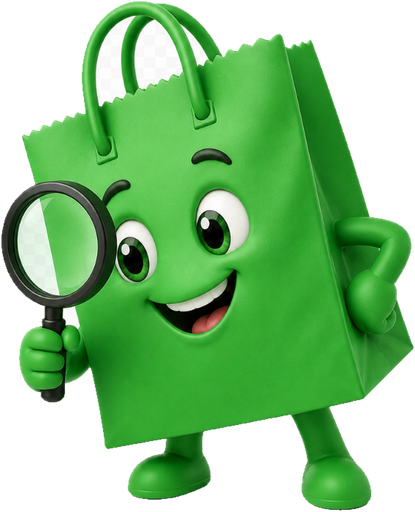
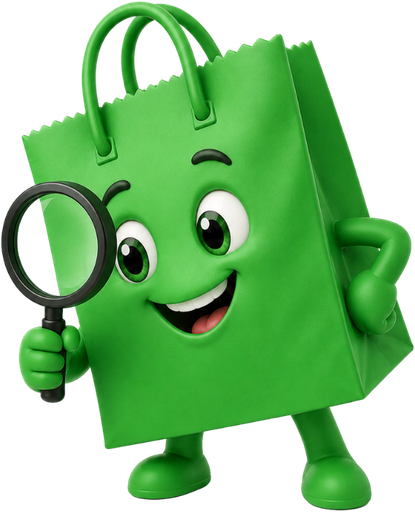
Feat: animacao do Sacolino especifica por pose (acenar, buscar, comemorar) + imagens reotimizadas (SW v35)

diff --git a/app/globals.css b/app/globals.css
@@ -228,6 +228,50 @@ input, select, textarea {
   animation: bob 3s ease-in-out infinite;
 }
 
+/* ── Animações do Sacolino por pose ── */
+
+/* Acenar — balança como quem dá tchau (pivô na base) */
+@keyframes mascot-wave {
+  0%, 100% { transform: rotate(0deg); }
+  25% { transform: rotate(-5deg); }
+  75% { transform: rotate(5deg); }
+}
+.animate-mascot-wave {
+  animation: mascot-wave 2.2s ease-in-out infinite;
+  transform-origin: 50% 92%;
+}
+
+/* Buscar — vai e volta como quem procura */
+@keyframes mascot-scan {
+  0%, 100% { transform: translateX(0) rotate(0deg); }
+  25% { transform: translateX(-7px) rotate(-2deg); }
+  75% { transform: translateX(7px) rotate(2deg); }
+}
+.animate-mascot-scan {
+  animation: mascot-scan 3s ease-in-out infinite;
+}
+
+/* Feliz — sobe e desce contente */
+@keyframes mascot-nod {
+  0%, 100% { transform: translateY(0); }
+  50% { transform: translateY(-6px); }
+}
+.animate-mascot-nod {
+  animation: mascot-nod 2.4s ease-in-out infinite;
+}
+
+/* Comemorar — pulinho de alegria */
+@keyframes mascot-celebrate {
+  0%, 100% { transform: translateY(0) scale(1); }
+  30% { transform: translateY(-13px) scale(1.04); }
+  48% { transform: translateY(0) scale(0.98); }
+  64% { transform: translateY(-6px) scale(1.02); }
+  80% { transform: translateY(0) scale(1); }
+}
+.animate-mascot-celebrate {
+  animation: mascot-celebrate 1.7s ease-in-out infinite;
+}
+
 /* Toast — sobe e aparece */
 @keyframes toast-up {
   from { opacity: 0; transform: translateY(14px); }
@@ -255,6 +299,10 @@ input, select, textarea {
   .animate-tap-pop,
   .animate-bob,
   .animate-tab-bounce,
+  .animate-mascot-wave,
+  .animate-mascot-scan,
+  .animate-mascot-nod,
+  .animate-mascot-celebrate,
   .animate-marquee {
     animation: none !important;
   }

diff --git a/components/shared/Mascote.tsx b/components/shared/Mascote.tsx
@@ -2,13 +2,11 @@ import { cn } from "@/lib/utils";
 
 /**
  * Sacolino — o mascote do Acabou? (imagens 3D em public/mascote/).
- * Dá personalidade às telas vazias, onboarding e celebrações.
- *
- * mood:
- *  - "acenando"    → boas-vindas / tela vazia acolhedora
- *  - "buscando"    → busca sem resultado
- *  - "feliz"       → tudo em dia / sucesso (joinha)
- *  - "comemorando" → compra finalizada (braços pra cima)
+ * Cada pose tem a sua PRÓPRIA animação, combinando com o gesto:
+ *  - "acenando"    → balança como quem dá tchau (boas-vindas / tela vazia)
+ *  - "buscando"    → vai e volta como quem procura (busca sem resultado)
+ *  - "feliz"       → sobe/desce contente (tudo em dia / joinha)
+ *  - "comemorando" → pulinho de alegria (compra finalizada)
  */
 const SRC = {
   acenando: "/mascote/sacolino-acenando.png",
@@ -17,17 +15,25 @@ const SRC = {
   comemorando: "/mascote/sacolino-comemorando.png",
 } as const;
 
+const ANIM = {
+  acenando: "animate-mascot-wave",
+  buscando: "animate-mascot-scan",
+  feliz: "animate-mascot-nod",
+  comemorando: "animate-mascot-celebrate",
+} as const;
+
 export type MascoteMood = keyof typeof SRC;
 
 export function Mascote({
   mood,
   size = 132,
-  bob = true,
+  animated = true,
   className = "",
 }: {
   mood: MascoteMood;
   size?: number;
-  bob?: boolean;
+  /** Liga a animação própria da pose. false = estático (ex: tela com confete). */
+  animated?: boolean;
   className?: string;
 }) {
   return (
@@ -37,7 +43,11 @@ export function Mascote({
       alt="Sacolino, mascote do Acabou?"
       style={{ height: size, width: "auto" }}
       draggable={false}
-      className={cn("select-none pointer-events-none", bob && "animate-bob", className)}
+      className={cn(
+        "select-none pointer-events-none",
+        animated && ANIM[mood],
+        className
+      )}
     />
   );
 }

diff --git a/app/(app)/lista/page.tsx b/app/(app)/lista/page.tsx
@@ -177,7 +177,7 @@ export default function ListaPage() {
     return (
       <div className="min-h-screen flex flex-col items-center justify-center px-6 text-center app-bg">
         <Confetti />
-        <Mascote mood="comemorando" size={168} bob={false} className="mb-4 animate-success-pop drop-shadow-lg" />
+        <Mascote mood="comemorando" size={168} animated={false} className="mb-4 animate-success-pop drop-shadow-lg" />
         <h2 className="text-2xl font-black text-gray-900 mb-2">Compra finalizada! 🎉</h2>
         <p className="text-gray-500 max-w-xs leading-relaxed">{copy.done}</p>
         <p className="text-sm text-gray-400 mt-2">Todos os itens foram atualizados.</p>

diff --git a/public/sw.js b/public/sw.js
@@ -1,5 +1,5 @@
 // Service Worker — Acabou? v3
-const CACHE = "acabou-v34";
+const CACHE = "acabou-v35";
 
 // ── Instalação ──
 self.addEventListener("install", (event) => {